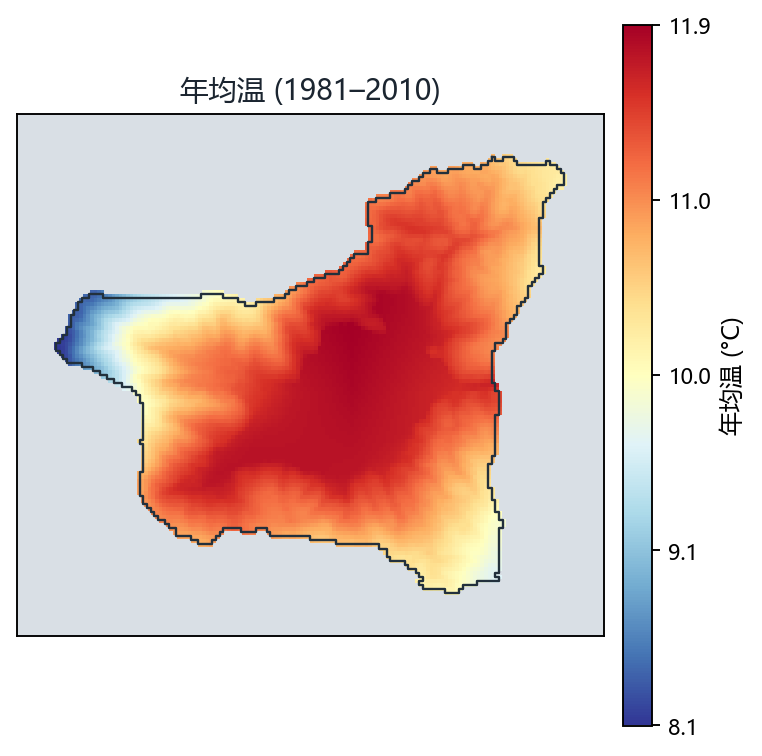
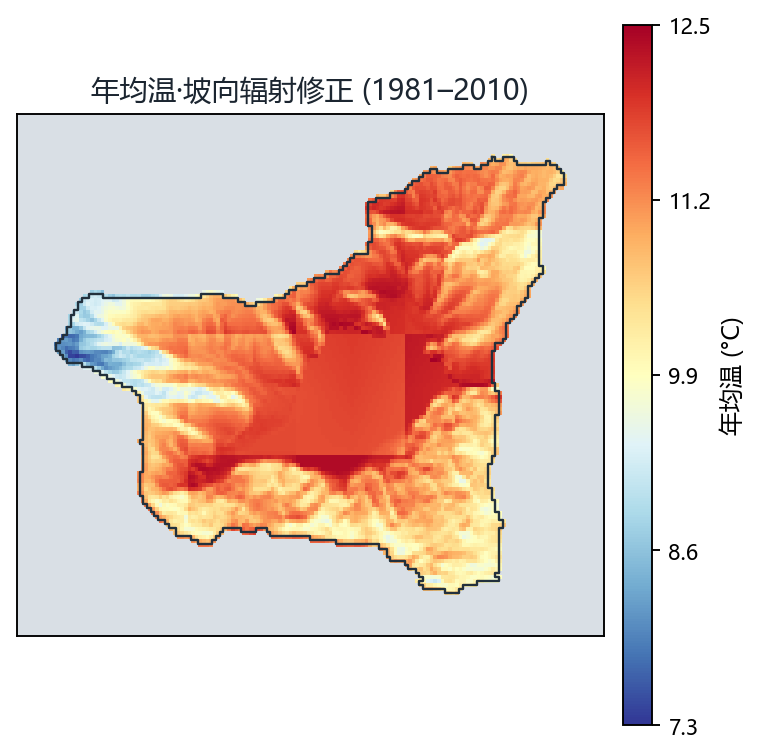
explorer: add mechanism-refined annual precipitation panel to present overview (3->4 grid, aspect-radiation temperature caption)

diff --git a/climate-explorer/climate-explorer.html b/climate-explorer/climate-explorer.html
@@ -217,11 +217,11 @@ footer a { color: var(--accent); }
   .stats { padding: 14px 16px; }
   .legend { font-size: 11.5px; gap: 10px; }
 }
-/* ---------- 现状速览（2D 三图） ---------- */
+/* ---------- 现状速览（2D 四图） ---------- */
 .present-card { padding: 16px 18px 18px; margin-bottom: 16px; }
 .present-head { margin-bottom: 12px; }
 .present-sub { font-size: 12.5px; color: var(--muted); margin-top: 2px; }
-.present-grid { display: grid; grid-template-columns: repeat(3, 1fr); gap: 14px; }
+.present-grid { display: grid; grid-template-columns: repeat(2, 1fr); gap: 14px; }
 .present-grid figure { margin: 0; }
 .present-grid img {
   width: 100%; display: block; border: 1px solid var(--line);
@@ -348,7 +348,11 @@ footer a { color: var(--accent); }
       </figure>
       <figure>
         <img src="./present/present_temperature.png" alt="温度图">
-        <figcaption>年均温（1981–2010，8.1–11.9 °C）</figcaption>
+        <figcaption>年均温·坡向辐射修正（1981–2010，7.3–12.5 °C）</figcaption>
+      </figure>
+      <figure>
+        <img src="./present/present_pr.png" alt="年降水图">
+        <figcaption>年降水·上风向遮蔽机制（1981–2010，1070–1604 mm/年）</figcaption>
       </figure>
       <figure>
         <img src="./present/present_land.png" alt="植被河流图">
@@ -370,7 +374,7 @@ footer a { color: var(--accent); }
   <h2>数据与口径说明</h2>
   <div class="cols">
     <div>
-      <p><b>观测基准</b>：CHELSA v2.1 月值气候态（1981–2010，1 km），气温经 30m 地形细化（局部高程递减率 γΔz），降水双线性插值。</p>
+      <p><b>观测基准</b>：CHELSA v2.1 月值气候态（1981–2010，1 km），气温经 30m 地形细化（局部高程递减率 γΔz + 坡向辐射修正，阳坡暖/阴坡冷），降水经上风向遮蔽机制细化（迎风坡湿/背风坡干，风场取 1981–2010 ERA5 逐月盛行风）。现状四图即该机制细化口径。</p>
       <p><b>模式集合</b>：CMIP6 Amon 逐月数据，MPI-ESM1-2-HR、MRI-ESM2-0、EC-Earth3、CanESM5 与 NorESM2-LM（r1i1p1f1 成员，全 2015–2100 时段覆盖），重网格至 1 km 后经逐月经验分位映射（EQM）偏差校正，取五模式中位数与模式间范围。</p>
       <p><b>趋势保持口径</b>：未来窗口气候态 = CHELSA 观测气候态 + GCM 窗口变化信号（与结果图册 restore 环节完全一致），避免降尺度模型外推的均值衰减。</p>
     </div>
